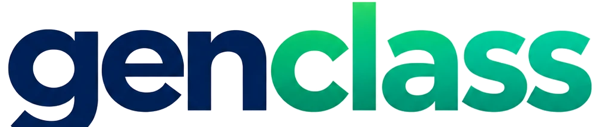
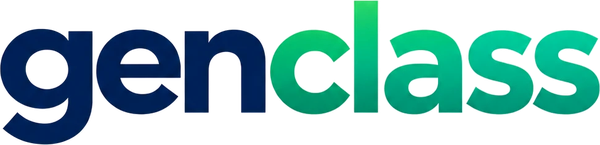
Mehar commit: site: rebuild the nav lockup so the g descender is not clipped
lockup-h.png and wordmark-600.png were cropped from a wordmark that cut the g at
the baseline. Re-cut the wordmark from wordtag.png (tagline masked), recompose the
lockup with the mark, and size the nav image for the taller asset.

diff --git a/site/public/index.html b/site/public/index.html
@@ -31,7 +31,7 @@
 <link rel="preconnect" href="https://fonts.googleapis.com">
 <link rel="preconnect" href="https://fonts.gstatic.com" crossorigin>
 <link href="https://fonts.googleapis.com/css2?family=Outfit:wght@500;600;700;800&amp;family=Figtree:wght@400;500;600&amp;family=Geist+Mono:wght@400;500&amp;display=swap" rel="stylesheet">
-<link rel="stylesheet" href="/styles.css?v=7e5ceaad">
+<link rel="stylesheet" href="/styles.css?v=c4d84874">
 <script type="application/ld+json">{"@context": "https://schema.org", "@graph": [{"@type": "Organization", "@id": "https://genclass.dev/#org", "name": "GenClass", "url": "https://genclass.dev/", "logo": "https://genclass.dev/icon-512.png", "sameAs": ["https://github.com/daybot-solutions-inc/GenClass-lib", "https://www.npmjs.com/package/@genclass/runtime"]}, {"@type": "WebSite", "@id": "https://genclass.dev/#site", "url": "https://genclass.dev/", "name": "GenClass", "publisher": {"@id": "https://genclass.dev/#org"}}, {"@type": "SoftwareApplication", "name": "GenClass Runtime", "alternateName": "@genclass/runtime", "applicationCategory": "DeveloperApplication", "applicationSubCategory": "Application reliability", "operatingSystem": "Web browser", "softwareVersion": "0.2.0", "license": "https://www.apache.org/licenses/LICENSE-2.0", "url": "https://genclass.dev/", "downloadUrl": "https://www.npmjs.com/package/@genclass/runtime", "installUrl": "https://genclass.dev/docs", "codeRepository": "https://github.com/daybot-solutions-inc/GenClass-lib", "programmingLanguage": ["TypeScript", "JavaScript"], "featureList": ["On-device AI inference with WebGPU or WASM", "Stale response and race condition prevention", "Duplicate request detection", "Failure storm detection", "Automatic React, Redux and Zustand state discovery", "Plain-English explanations, audit trail and undo"], "description": "An open-source runtime for web apps that uses a 10 MB on-device model to detect and prevent stale responses, race conditions, duplicate requests, inconsistent state and failure storms.", "offers": {"@type": "Offer", "price": "0", "priceCurrency": "USD", "description": "Community edition, free forever"}, "publisher": {"@id": "https://genclass.dev/#org"}}, {"@type": "FAQPage", "mainEntity": [{"@type": "Question", "name": "Is GenClass free?", "acceptedAnswer": {"@type": "Answer", "text": "Yes. The GenClass runtime is open source under Apache-2.0 and free forever, including in commercial apps, with no usage limits. GenClass Cloud and Enterprise are optional paid products for teams that want central dashboards, alerts, rollout controls, SSO and audit logs."}}, {"@type": "Question", "name": "Does GenClass need an account or an API key?", "acceptedAnswer": {"@type": "Answer", "text": "No. One script tag or import \"@genclass/runtime/auto\" is all it takes. An account is only needed for GenClass Cloud."}}, {"@type": "Question", "name": "Where does the AI model run?", "acceptedAnswer": {"@type": "Answer", "text": "In your users' browsers, inside a Web Worker on WebGPU or WASM. Decisions never depend on a server, so there are no per-inference fees and protection keeps working offline."}}, {"@type": "Question", "name": "Will GenClass break my app?", "acceptedAnswer": {"@type": "Answer", "text": "The default mode only observes and changes nothing. Across 7 frameworks and 15 data layers, GenClass introduced no bugs in 3,510 test runs, and in a sweep of 66 real apps 396 of 396 correct runs were left unchanged."}}]}]}</script>
 <script>window.__gcRawFetch = window.fetch.bind(window);</script>
 <script src="https://cdn.jsdelivr.net/npm/@genclass/runtime@0.2.0" data-manual></script>
@@ -40,7 +40,7 @@
 <a class="skip" href="#main">Skip to content</a>
 <header class="nav">
   <div class="wrap">
-    <a class="logo" href="/" aria-label="GenClass home"><img class="lk" src="/brand/lockup-h.png?v=1" alt="genclass" width="144" height="32"></a>
+    <a class="logo" href="/" aria-label="GenClass home"><img class="lk" src="/brand/lockup-h.png?v=2" alt="genclass" width="170" height="37"></a>
     <nav aria-label="Main"><a href="/cloud">Cloud</a><a href="/enterprise">Enterprise</a><a href="/pricing">Pricing</a><a href="/docs">Docs</a><a href="/benchmarks">Benchmarks</a><a href="/guides">Guides</a></nav>
     <a class="gh" href="https://github.com/daybot-solutions-inc/GenClass-lib">GitHub</a>
     <details class="mnav"><summary aria-label="Open menu">Menu</summary><div class="panel"><a href="/cloud">Cloud</a><a href="/enterprise">Enterprise</a><a href="/pricing">Pricing</a><a href="/docs">Docs</a><a href="/benchmarks">Benchmarks</a><a href="/guides">Guides</a><a href="https://github.com/daybot-solutions-inc/GenClass-lib">GitHub</a><a href="/docs">Get started</a></div></details>

diff --git a/site/public/pricing.html b/site/public/pricing.html
@@ -31,14 +31,14 @@
 <link rel="preconnect" href="https://fonts.googleapis.com">
 <link rel="preconnect" href="https://fonts.gstatic.com" crossorigin>
 <link href="https://fonts.googleapis.com/css2?family=Outfit:wght@500;600;700;800&amp;family=Figtree:wght@400;500;600&amp;family=Geist+Mono:wght@400;500&amp;display=swap" rel="stylesheet">
-<link rel="stylesheet" href="/styles.css?v=7e5ceaad">
+<link rel="stylesheet" href="/styles.css?v=c4d84874">
 <script type="application/ld+json">{"@context": "https://schema.org", "@graph": [{"@type": "Organization", "@id": "https://genclass.dev/#org", "name": "GenClass", "url": "https://genclass.dev/", "logo": "https://genclass.dev/icon-512.png", "sameAs": ["https://github.com/daybot-solutions-inc/GenClass-lib", "https://www.npmjs.com/package/@genclass/runtime"]}, {"@type": "WebSite", "@id": "https://genclass.dev/#site", "url": "https://genclass.dev/", "name": "GenClass", "publisher": {"@id": "https://genclass.dev/#org"}}, {"@type": "BreadcrumbList", "itemListElement": [{"@type": "ListItem", "position": 1, "name": "Home", "item": "https://genclass.dev/"}, {"@type": "ListItem", "position": 2, "name": "Pricing", "item": "https://genclass.dev/pricing"}]}, {"@type": "Product", "name": "GenClass", "description": "Self-healing AI runtime for web apps, with an optional cloud control plane for teams.", "brand": {"@type": "Brand", "name": "GenClass"}, "image": "https://genclass.dev/icon-512.png", "url": "https://genclass.dev/pricing", "offers": [{"@type": "Offer", "name": "Community", "price": "0", "priceCurrency": "USD", "url": "https://genclass.dev/docs", "availability": "https://schema.org/InStock", "description": "Open-source runtime, free forever, unlimited use."}, {"@type": "Offer", "name": "Cloud Teams", "price": "99", "priceCurrency": "USD", "url": "https://genclass.dev/cloud", "availability": "https://schema.org/PreOrder", "priceSpecification": {"@type": "UnitPriceSpecification", "price": "99", "priceCurrency": "USD", "unitText": "MONTH"}, "description": "Central dashboard, release comparisons, alerts and team controls. Early access."}, {"@type": "Offer", "name": "Enterprise", "price": "15000", "priceCurrency": "USD", "url": "https://genclass.dev/enterprise", "availability": "https://schema.org/PreOrder", "priceSpecification": {"@type": "UnitPriceSpecification", "price": "15000", "priceCurrency": "USD", "unitText": "YEAR"}, "description": "SSO, audit logs, private hosting, security policies, priority support and SLAs."}]}, {"@type": "FAQPage", "mainEntity": [{"@type": "Question", "name": "Is the GenClass runtime really free for commercial use?", "acceptedAnswer": {"@type": "Answer", "text": "Yes. The runtime is Apache-2.0 open source. You can use it in commercial apps with unlimited traffic and no account."}}, {"@type": "Question", "name": "Do you charge per inference or per bug fixed?", "acceptedAnswer": {"@type": "Answer", "text": "No. Inference runs on your users' devices, so it costs us nothing and costs you nothing. Paid plans charge for the team control plane, not for protection."}}, {"@type": "Question", "name": "What happens if my Cloud subscription ends?", "acceptedAnswer": {"@type": "Answer", "text": "Your apps stay protected. The runtime keeps running locally; only the dashboard, alerts and shared controls stop."}}]}]}</script>
 </head>
 <body>
 <a class="skip" href="#main">Skip to content</a>
 <header class="nav">
   <div class="wrap">
-    <a class="logo" href="/" aria-label="GenClass home"><img class="lk" src="/brand/lockup-h.png?v=1" alt="genclass" width="144" height="32"></a>
+    <a class="logo" href="/" aria-label="GenClass home"><img class="lk" src="/brand/lockup-h.png?v=2" alt="genclass" width="170" height="37"></a>
     <nav aria-label="Main"><a href="/cloud">Cloud</a><a href="/enterprise">Enterprise</a><a href="/pricing" class="on" aria-current="page">Pricing</a><a href="/docs">Docs</a><a href="/benchmarks">Benchmarks</a><a href="/guides">Guides</a></nav>
     <a class="gh" href="https://github.com/daybot-solutions-inc/GenClass-lib">GitHub</a>
     <details class="mnav"><summary aria-label="Open menu">Menu</summary><div class="panel"><a href="/cloud">Cloud</a><a href="/enterprise">Enterprise</a><a href="/pricing">Pricing</a><a href="/docs">Docs</a><a href="/benchmarks">Benchmarks</a><a href="/guides">Guides</a><a href="https://github.com/daybot-solutions-inc/GenClass-lib">GitHub</a><a href="/docs">Get started</a></div></details>

diff --git a/site/public/docs.html b/site/public/docs.html
@@ -31,14 +31,14 @@
 <link rel="preconnect" href="https://fonts.googleapis.com">
 <link rel="preconnect" href="https://fonts.gstatic.com" crossorigin>
 <link href="https://fonts.googleapis.com/css2?family=Outfit:wght@500;600;700;800&amp;family=Figtree:wght@400;500;600&amp;family=Geist+Mono:wght@400;500&amp;display=swap" rel="stylesheet">
-<link rel="stylesheet" href="/styles.css?v=7e5ceaad">
+<link rel="stylesheet" href="/styles.css?v=c4d84874">
 <script type="application/ld+json">{"@context": "https://schema.org", "@graph": [{"@type": "Organization", "@id": "https://genclass.dev/#org", "name": "GenClass", "url": "https://genclass.dev/", "logo": "https://genclass.dev/icon-512.png", "sameAs": ["https://github.com/daybot-solutions-inc/GenClass-lib", "https://www.npmjs.com/package/@genclass/runtime"]}, {"@type": "WebSite", "@id": "https://genclass.dev/#site", "url": "https://genclass.dev/", "name": "GenClass", "publisher": {"@id": "https://genclass.dev/#org"}}, {"@type": "BreadcrumbList", "itemListElement": [{"@type": "ListItem", "position": 1, "name": "Home", "item": "https://genclass.dev/"}, {"@type": "ListItem", "position": 2, "name": "Docs", "item": "https://genclass.dev/docs"}]}, {"@type": "HowTo", "name": "Install GenClass in a web app", "description": "Add the GenClass self-healing runtime to any web app.", "totalTime": "PT2M", "tool": [{"@type": "HowToTool", "name": "npm"}], "step": [{"@type": "HowToStep", "name": "Install the package", "text": "Run npm install @genclass/runtime.", "url": "https://genclass.dev/docs#install"}, {"@type": "HowToStep", "name": "Initialize the runtime", "text": "Import GenClass from @genclass/runtime and call GenClass.init() at the top of your entry file.", "url": "https://genclass.dev/docs#init"}, {"@type": "HowToStep", "name": "Choose a mode", "text": "Start in observe mode, then pass { mode: 'guard' } to let GenClass act.", "url": "https://genclass.dev/docs#modes"}]}, {"@type": "TechArticle", "headline": "GenClass documentation: getting started", "author": {"@id": "https://genclass.dev/#org"}, "publisher": {"@id": "https://genclass.dev/#org"}, "dateModified": "2026-10-10", "proficiencyLevel": "Beginner"}]}</script>
 </head>
 <body>
 <a class="skip" href="#main">Skip to content</a>
 <header class="nav">
   <div class="wrap">
-    <a class="logo" href="/" aria-label="GenClass home"><img class="lk" src="/brand/lockup-h.png?v=1" alt="genclass" width="144" height="32"></a>
+    <a class="logo" href="/" aria-label="GenClass home"><img class="lk" src="/brand/lockup-h.png?v=2" alt="genclass" width="170" height="37"></a>
     <nav aria-label="Main"><a href="/cloud">Cloud</a><a href="/enterprise">Enterprise</a><a href="/pricing">Pricing</a><a href="/docs" class="on" aria-current="page">Docs</a><a href="/benchmarks">Benchmarks</a><a href="/guides">Guides</a></nav>
     <a class="gh" href="https://github.com/daybot-solutions-inc/GenClass-lib">GitHub</a>
     <details class="mnav"><summary aria-label="Open menu">Menu</summary><div class="panel"><a href="/cloud">Cloud</a><a href="/enterprise">Enterprise</a><a href="/pricing">Pricing</a><a href="/docs">Docs</a><a href="/benchmarks">Benchmarks</a><a href="/guides">Guides</a><a href="https://github.com/daybot-solutions-inc/GenClass-lib">GitHub</a><a href="/docs">Get started</a></div></details>

diff --git a/site/public/benchmarks.html b/site/public/benchmarks.html
@@ -31,14 +31,14 @@
 <link rel="preconnect" href="https://fonts.googleapis.com">
 <link rel="preconnect" href="https://fonts.gstatic.com" crossorigin>
 <link href="https://fonts.googleapis.com/css2?family=Outfit:wght@500;600;700;800&amp;family=Figtree:wght@400;500;600&amp;family=Geist+Mono:wght@400;500&amp;display=swap" rel="stylesheet">
-<link rel="stylesheet" href="/styles.css?v=7e5ceaad">
+<link rel="stylesheet" href="/styles.css?v=c4d84874">
 <script type="application/ld+json">{"@context": "https://schema.org", "@graph": [{"@type": "Organization", "@id": "https://genclass.dev/#org", "name": "GenClass", "url": "https://genclass.dev/", "logo": "https://genclass.dev/icon-512.png", "sameAs": ["https://github.com/daybot-solutions-inc/GenClass-lib", "https://www.npmjs.com/package/@genclass/runtime"]}, {"@type": "WebSite", "@id": "https://genclass.dev/#site", "url": "https://genclass.dev/", "name": "GenClass", "publisher": {"@id": "https://genclass.dev/#org"}}, {"@type": "BreadcrumbList", "itemListElement": [{"@type": "ListItem", "position": 1, "name": "Home", "item": "https://genclass.dev/"}, {"@type": "ListItem", "position": 2, "name": "Benchmarks", "item": "https://genclass.dev/benchmarks"}]}, {"@type": "Dataset", "name": "GenClass real-app evaluation set", "description": "16,600 held-out runtime situations recorded from real web apps in headless Chromium, never used for training, labelled by counterfactual replay.", "creator": {"@id": "https://genclass.dev/#org"}, "license": "https://www.apache.org/licenses/LICENSE-2.0", "url": "https://genclass.dev/benchmarks", "isAccessibleForFree": true}, {"@type": "TechArticle", "headline": "GenClass benchmarks", "author": {"@id": "https://genclass.dev/#org"}, "publisher": {"@id": "https://genclass.dev/#org"}, "dateModified": "2026-10-10"}]}</script>
 </head>
 <body>
 <a class="skip" href="#main">Skip to content</a>
 <header class="nav">
   <div class="wrap">
-    <a class="logo" href="/" aria-label="GenClass home"><img class="lk" src="/brand/lockup-h.png?v=1" alt="genclass" width="144" height="32"></a>
+    <a class="logo" href="/" aria-label="GenClass home"><img class="lk" src="/brand/lockup-h.png?v=2" alt="genclass" width="170" height="37"></a>
     <nav aria-label="Main"><a href="/cloud">Cloud</a><a href="/enterprise">Enterprise</a><a href="/pricing">Pricing</a><a href="/docs">Docs</a><a href="/benchmarks" class="on" aria-current="page">Benchmarks</a><a href="/guides">Guides</a></nav>
     <a class="gh" href="https://github.com/daybot-solutions-inc/GenClass-lib">GitHub</a>
     <details class="mnav"><summary aria-label="Open menu">Menu</summary><div class="panel"><a href="/cloud">Cloud</a><a href="/enterprise">Enterprise</a><a href="/pricing">Pricing</a><a href="/docs">Docs</a><a href="/benchmarks">Benchmarks</a><a href="/guides">Guides</a><a href="https://github.com/daybot-solutions-inc/GenClass-lib">GitHub</a><a href="/docs">Get started</a></div></details>

diff --git a/site/public/guides/stale-responses-out-of-order.html b/site/public/guides/stale-responses-out-of-order.html
@@ -33,14 +33,14 @@
 <link rel="preconnect" href="https://fonts.googleapis.com">
 <link rel="preconnect" href="https://fonts.gstatic.com" crossorigin>
 <link href="https://fonts.googleapis.com/css2?family=Outfit:wght@500;600;700;800&amp;family=Figtree:wght@400;500;600&amp;family=Geist+Mono:wght@400;500&amp;display=swap" rel="stylesheet">
-<link rel="stylesheet" href="/styles.css?v=7e5ceaad">
+<link rel="stylesheet" href="/styles.css?v=c4d84874">
 <script type="application/ld+json">{"@context": "https://schema.org", "@graph": [{"@type": "Organization", "@id": "https://genclass.dev/#org", "name": "GenClass", "url": "https://genclass.dev/", "logo": "https://genclass.dev/icon-512.png", "sameAs": ["https://github.com/daybot-solutions-inc/GenClass-lib", "https://www.npmjs.com/package/@genclass/runtime"]}, {"@type": "WebSite", "@id": "https://genclass.dev/#site", "url": "https://genclass.dev/", "name": "GenClass", "publisher": {"@id": "https://genclass.dev/#org"}}, {"@type": "BreadcrumbList", "itemListElement": [{"@type": "ListItem", "position": 1, "name": "Home", "item": "https://genclass.dev/"}, {"@type": "ListItem", "position": 2, "name": "Guides", "item": "https://genclass.dev/guides"}, {"@type": "ListItem", "position": 3, "name": "Out-of-order responses", "item": "https://genclass.dev/guides/stale-responses-out-of-order"}]}, {"@type": "TechArticle", "headline": "Out-of-order responses: fixing stale search and autocomplete results", "datePublished": "2026-10-10", "dateModified": "2026-10-10", "author": {"@id": "https://genclass.dev/#org"}, "publisher": {"@id": "https://genclass.dev/#org"}, "proficiencyLevel": "Intermediate", "about": ["Autocomplete", "Typeahead", "Out-of-order responses", "Debounce"], "mainEntityOfPage": "https://genclass.dev/guides/stale-responses-out-of-order"}]}</script>
 </head>
 <body>
 <a class="skip" href="#main">Skip to content</a>
 <header class="nav">
   <div class="wrap">
-    <a class="logo" href="/" aria-label="GenClass home"><img class="lk" src="/brand/lockup-h.png?v=1" alt="genclass" width="144" height="32"></a>
+    <a class="logo" href="/" aria-label="GenClass home"><img class="lk" src="/brand/lockup-h.png?v=2" alt="genclass" width="170" height="37"></a>
     <nav aria-label="Main"><a href="/cloud">Cloud</a><a href="/enterprise">Enterprise</a><a href="/pricing">Pricing</a><a href="/docs">Docs</a><a href="/benchmarks">Benchmarks</a><a href="/guides" class="on" aria-current="page">Guides</a></nav>
     <a class="gh" href="https://github.com/daybot-solutions-inc/GenClass-lib">GitHub</a>
     <details class="mnav"><summary aria-label="Open menu">Menu</summary><div class="panel"><a href="/cloud">Cloud</a><a href="/enterprise">Enterprise</a><a href="/pricing">Pricing</a><a href="/docs">Docs</a><a href="/benchmarks">Benchmarks</a><a href="/guides">Guides</a><a href="https://github.com/daybot-solutions-inc/GenClass-lib">GitHub</a><a href="/docs">Get started</a></div></details>

diff --git a/site/public/guides/prevent-duplicate-submissions.html b/site/public/guides/prevent-duplicate-submissions.html
@@ -33,14 +33,14 @@
 <link rel="preconnect" href="https://fonts.googleapis.com">
 <link rel="preconnect" href="https://fonts.gstatic.com" crossorigin>
 <link href="https://fonts.googleapis.com/css2?family=Outfit:wght@500;600;700;800&amp;family=Figtree:wght@400;500;600&amp;family=Geist+Mono:wght@400;500&amp;display=swap" rel="stylesheet">
-<link rel="stylesheet" href="/styles.css?v=7e5ceaad">
+<link rel="stylesheet" href="/styles.css?v=c4d84874">
 <script type="application/ld+json">{"@context": "https://schema.org", "@graph": [{"@type": "Organization", "@id": "https://genclass.dev/#org", "name": "GenClass", "url": "https://genclass.dev/", "logo": "https://genclass.dev/icon-512.png", "sameAs": ["https://github.com/daybot-solutions-inc/GenClass-lib", "https://www.npmjs.com/package/@genclass/runtime"]}, {"@type": "WebSite", "@id": "https://genclass.dev/#site", "url": "https://genclass.dev/", "name": "GenClass", "publisher": {"@id": "https://genclass.dev/#org"}}, {"@type": "BreadcrumbList", "itemListElement": [{"@type": "ListItem", "position": 1, "name": "Home", "item": "https://genclass.dev/"}, {"@type": "ListItem", "position": 2, "name": "Guides", "item": "https://genclass.dev/guides"}, {"@type": "ListItem", "position": 3, "name": "Duplicate submissions", "item": "https://genclass.dev/guides/prevent-duplicate-submissions"}]}, {"@type": "TechArticle", "headline": "How to prevent duplicate form submissions", "datePublished": "2026-10-10", "dateModified": "2026-10-10", "author": {"@id": "https://genclass.dev/#org"}, "publisher": {"@id": "https://genclass.dev/#org"}, "proficiencyLevel": "Intermediate", "about": ["Idempotency", "Duplicate requests", "Form submission"], "mainEntityOfPage": "https://genclass.dev/guides/prevent-duplicate-submissions"}]}</script>
 </head>
 <body>
 <a class="skip" href="#main">Skip to content</a>
 <header class="nav">
   <div class="wrap">
-    <a class="logo" href="/" aria-label="GenClass home"><img class="lk" src="/brand/lockup-h.png?v=1" alt="genclass" width="144" height="32"></a>
+    <a class="logo" href="/" aria-label="GenClass home"><img class="lk" src="/brand/lockup-h.png?v=2" alt="genclass" width="170" height="37"></a>
     <nav aria-label="Main"><a href="/cloud">Cloud</a><a href="/enterprise">Enterprise</a><a href="/pricing">Pricing</a><a href="/docs">Docs</a><a href="/benchmarks">Benchmarks</a><a href="/guides" class="on" aria-current="page">Guides</a></nav>
     <a class="gh" href="https://github.com/daybot-solutions-inc/GenClass-lib">GitHub</a>
     <details class="mnav"><summary aria-label="Open menu">Menu</summary><div class="panel"><a href="/cloud">Cloud</a><a href="/enterprise">Enterprise</a><a href="/pricing">Pricing</a><a href="/docs">Docs</a><a href="/benchmarks">Benchmarks</a><a href="/guides">Guides</a><a href="https://github.com/daybot-solutions-inc/GenClass-lib">GitHub</a><a href="/docs">Get started</a></div></details>

diff --git a/site/public/guides.html b/site/public/guides.html
@@ -31,14 +31,14 @@
 <link rel="preconnect" href="https://fonts.googleapis.com">
 <link rel="preconnect" href="https://fonts.gstatic.com" crossorigin>
 <link href="https://fonts.googleapis.com/css2?family=Outfit:wght@500;600;700;800&amp;family=Figtree:wght@400;500;600&amp;family=Geist+Mono:wght@400;500&amp;display=swap" rel="stylesheet">
-<link rel="stylesheet" href="/styles.css?v=7e5ceaad">
+<link rel="stylesheet" href="/styles.css?v=c4d84874">
 <script type="application/ld+json">{"@context": "https://schema.org", "@graph": [{"@type": "Organization", "@id": "https://genclass.dev/#org", "name": "GenClass", "url": "https://genclass.dev/", "logo": "https://genclass.dev/icon-512.png", "sameAs": ["https://github.com/daybot-solutions-inc/GenClass-lib", "https://www.npmjs.com/package/@genclass/runtime"]}, {"@type": "WebSite", "@id": "https://genclass.dev/#site", "url": "https://genclass.dev/", "name": "GenClass", "publisher": {"@id": "https://genclass.dev/#org"}}, {"@type": "BreadcrumbList", "itemListElement": [{"@type": "ListItem", "position": 1, "name": "Home", "item": "https://genclass.dev/"}, {"@type": "ListItem", "position": 2, "name": "Guides", "item": "https://genclass.dev/guides"}]}, {"@type": "CollectionPage", "name": "GenClass guides", "url": "https://genclass.dev/guides", "hasPart": [{"@type": "TechArticle", "headline": "How to fix race conditions in React data fetching", "url": "https://genclass.dev/guides/race-conditions-react"}, {"@type": "TechArticle", "headline": "How to prevent duplicate form submissions", "url": "https://genclass.dev/guides/prevent-duplicate-submissions"}, {"@type": "TechArticle", "headline": "Out-of-order responses and stale search results", "url": "https://genclass.dev/guides/stale-responses-out-of-order"}]}]}</script>
 </head>
 <body>
 <a class="skip" href="#main">Skip to content</a>
 <header class="nav">
   <div class="wrap">
-    <a class="logo" href="/" aria-label="GenClass home"><img class="lk" src="/brand/lockup-h.png?v=1" alt="genclass" width="144" height="32"></a>
+    <a class="logo" href="/" aria-label="GenClass home"><img class="lk" src="/brand/lockup-h.png?v=2" alt="genclass" width="170" height="37"></a>
     <nav aria-label="Main"><a href="/cloud">Cloud</a><a href="/enterprise">Enterprise</a><a href="/pricing">Pricing</a><a href="/docs">Docs</a><a href="/benchmarks">Benchmarks</a><a href="/guides" class="on" aria-current="page">Guides</a></nav>
     <a class="gh" href="https://github.com/daybot-solutions-inc/GenClass-lib">GitHub</a>
     <details class="mnav"><summary aria-label="Open menu">Menu</summary><div class="panel"><a href="/cloud">Cloud</a><a href="/enterprise">Enterprise</a><a href="/pricing">Pricing</a><a href="/docs">Docs</a><a href="/benchmarks">Benchmarks</a><a href="/guides">Guides</a><a href="https://github.com/daybot-solutions-inc/GenClass-lib">GitHub</a><a href="/docs">Get started</a></div></details>

diff --git a/site/public/guides/race-conditions-react.html b/site/public/guides/race-conditions-react.html
@@ -33,14 +33,14 @@
 <link rel="preconnect" href="https://fonts.googleapis.com">
 <link rel="preconnect" href="https://fonts.gstatic.com" crossorigin>
 <link href="https://fonts.googleapis.com/css2?family=Outfit:wght@500;600;700;800&amp;family=Figtree:wght@400;500;600&amp;family=Geist+Mono:wght@400;500&amp;display=swap" rel="stylesheet">
-<link rel="stylesheet" href="/styles.css?v=7e5ceaad">
+<link rel="stylesheet" href="/styles.css?v=c4d84874">
 <script type="application/ld+json">{"@context": "https://schema.org", "@graph": [{"@type": "Organization", "@id": "https://genclass.dev/#org", "name": "GenClass", "url": "https://genclass.dev/", "logo": "https://genclass.dev/icon-512.png", "sameAs": ["https://github.com/daybot-solutions-inc/GenClass-lib", "https://www.npmjs.com/package/@genclass/runtime"]}, {"@type": "WebSite", "@id": "https://genclass.dev/#site", "url": "https://genclass.dev/", "name": "GenClass", "publisher": {"@id": "https://genclass.dev/#org"}}, {"@type": "BreadcrumbList", "itemListElement": [{"@type": "ListItem", "position": 1, "name": "Home", "item": "https://genclass.dev/"}, {"@type": "ListItem", "position": 2, "name": "Guides", "item": "https://genclass.dev/guides"}, {"@type": "ListItem", "position": 3, "name": "Race conditions in React", "item": "https://genclass.dev/guides/race-conditions-react"}]}, {"@type": "TechArticle", "headline": "How to fix race conditions in React data fetching", "datePublished": "2026-10-10", "dateModified": "2026-10-10", "author": {"@id": "https://genclass.dev/#org"}, "publisher": {"@id": "https://genclass.dev/#org"}, "proficiencyLevel": "Intermediate", "about": ["React", "useEffect", "Race condition", "AbortController"], "mainEntityOfPage": "https://genclass.dev/guides/race-conditions-react"}]}</script>
 </head>
 <body>
 <a class="skip" href="#main">Skip to content</a>
 <header class="nav">
   <div class="wrap">
-    <a class="logo" href="/" aria-label="GenClass home"><img class="lk" src="/brand/lockup-h.png?v=1" alt="genclass" width="144" height="32"></a>
+    <a class="logo" href="/" aria-label="GenClass home"><img class="lk" src="/brand/lockup-h.png?v=2" alt="genclass" width="170" height="37"></a>
     <nav aria-label="Main"><a href="/cloud">Cloud</a><a href="/enterprise">Enterprise</a><a href="/pricing">Pricing</a><a href="/docs">Docs</a><a href="/benchmarks">Benchmarks</a><a href="/guides" class="on" aria-current="page">Guides</a></nav>
     <a class="gh" href="https://github.com/daybot-solutions-inc/GenClass-lib">GitHub</a>
     <details class="mnav"><summary aria-label="Open menu">Menu</summary><div class="panel"><a href="/cloud">Cloud</a><a href="/enterprise">Enterprise</a><a href="/pricing">Pricing</a><a href="/docs">Docs</a><a href="/benchmarks">Benchmarks</a><a href="/guides">Guides</a><a href="https://github.com/daybot-solutions-inc/GenClass-lib">GitHub</a><a href="/docs">Get started</a></div></details>

diff --git a/site/public/cloud.html b/site/public/cloud.html
@@ -31,14 +31,14 @@
 <link rel="preconnect" href="https://fonts.googleapis.com">
 <link rel="preconnect" href="https://fonts.gstatic.com" crossorigin>
 <link href="https://fonts.googleapis.com/css2?family=Outfit:wght@500;600;700;800&amp;family=Figtree:wght@400;500;600&amp;family=Geist+Mono:wght@400;500&amp;display=swap" rel="stylesheet">
-<link rel="stylesheet" href="/styles.css?v=7e5ceaad">
+<link rel="stylesheet" href="/styles.css?v=c4d84874">
 <script type="application/ld+json">{"@context": "https://schema.org", "@graph": [{"@type": "Organization", "@id": "https://genclass.dev/#org", "name": "GenClass", "url": "https://genclass.dev/", "logo": "https://genclass.dev/icon-512.png", "sameAs": ["https://github.com/daybot-solutions-inc/GenClass-lib", "https://www.npmjs.com/package/@genclass/runtime"]}, {"@type": "WebSite", "@id": "https://genclass.dev/#site", "url": "https://genclass.dev/", "name": "GenClass", "publisher": {"@id": "https://genclass.dev/#org"}}, {"@type": "BreadcrumbList", "itemListElement": [{"@type": "ListItem", "position": 1, "name": "Home", "item": "https://genclass.dev/"}, {"@type": "ListItem", "position": 2, "name": "Cloud", "item": "https://genclass.dev/cloud"}]}, {"@type": "SoftwareApplication", "name": "GenClass Cloud", "applicationCategory": "DeveloperApplication", "applicationSubCategory": "Reliability monitoring", "operatingSystem": "Web", "url": "https://genclass.dev/cloud", "description": "Central dashboard, release comparisons, alerts, rollouts and team controls for apps running the GenClass runtime.", "offers": {"@type": "Offer", "price": "99", "priceCurrency": "USD", "availability": "https://schema.org/PreOrder"}, "publisher": {"@id": "https://genclass.dev/#org"}}]}</script>
 </head>
 <body>
 <a class="skip" href="#main">Skip to content</a>
 <header class="nav">
   <div class="wrap">
-    <a class="logo" href="/" aria-label="GenClass home"><img class="lk" src="/brand/lockup-h.png?v=1" alt="genclass" width="144" height="32"></a>
+    <a class="logo" href="/" aria-label="GenClass home"><img class="lk" src="/brand/lockup-h.png?v=2" alt="genclass" width="170" height="37"></a>
     <nav aria-label="Main"><a href="/cloud" class="on" aria-current="page">Cloud</a><a href="/enterprise">Enterprise</a><a href="/pricing">Pricing</a><a href="/docs">Docs</a><a href="/benchmarks">Benchmarks</a><a href="/guides">Guides</a></nav>
     <a class="gh" href="https://github.com/daybot-solutions-inc/GenClass-lib">GitHub</a>
     <details class="mnav"><summary aria-label="Open menu">Menu</summary><div class="panel"><a href="/cloud">Cloud</a><a href="/enterprise">Enterprise</a><a href="/pricing">Pricing</a><a href="/docs">Docs</a><a href="/benchmarks">Benchmarks</a><a href="/guides">Guides</a><a href="https://github.com/daybot-solutions-inc/GenClass-lib">GitHub</a><a href="/docs">Get started</a></div></details>

diff --git a/site/public/docs/options.html b/site/public/docs/options.html
@@ -31,14 +31,14 @@
 <link rel="preconnect" href="https://fonts.googleapis.com">
 <link rel="preconnect" href="https://fonts.gstatic.com" crossorigin>
 <link href="https://fonts.googleapis.com/css2?family=Outfit:wght@500;600;700;800&amp;family=Figtree:wght@400;500;600&amp;family=Geist+Mono:wght@400;500&amp;display=swap" rel="stylesheet">
-<link rel="stylesheet" href="/styles.css?v=7e5ceaad">
+<link rel="stylesheet" href="/styles.css?v=c4d84874">
 <script type="application/ld+json">{"@context": "https://schema.org", "@graph": [{"@type": "Organization", "@id": "https://genclass.dev/#org", "name": "GenClass", "url": "https://genclass.dev/", "logo": "https://genclass.dev/icon-512.png", "sameAs": ["https://github.com/daybot-solutions-inc/GenClass-lib", "https://www.npmjs.com/package/@genclass/runtime"]}, {"@type": "WebSite", "@id": "https://genclass.dev/#site", "url": "https://genclass.dev/", "name": "GenClass", "publisher": {"@id": "https://genclass.dev/#org"}}, {"@type": "BreadcrumbList", "itemListElement": [{"@type": "ListItem", "position": 1, "name": "Home", "item": "https://genclass.dev/"}, {"@type": "ListItem", "position": 2, "name": "Docs", "item": "https://genclass.dev/docs"}, {"@type": "ListItem", "position": 3, "name": "Options Reference", "item": "https://genclass.dev/docs/options"}]}, {"@type": "TechArticle", "headline": "@genclass/runtime: configuration extensions spec (v0.3 options), final", "author": {"@id": "https://genclass.dev/#org"}, "publisher": {"@id": "https://genclass.dev/#org"}, "dateModified": "2026-10-10", "isBasedOn": "https://github.com/daybot-solutions-inc/GenClass-lib/blob/main/docs/runtime/OPTIONS-SPEC.md"}]}</script>
 </head>
 <body>
 <a class="skip" href="#main">Skip to content</a>
 <header class="nav">
   <div class="wrap">
-    <a class="logo" href="/" aria-label="GenClass home"><img class="lk" src="/brand/lockup-h.png?v=1" alt="genclass" width="144" height="32"></a>
+    <a class="logo" href="/" aria-label="GenClass home"><img class="lk" src="/brand/lockup-h.png?v=2" alt="genclass" width="170" height="37"></a>
     <nav aria-label="Main"><a href="/cloud">Cloud</a><a href="/enterprise">Enterprise</a><a href="/pricing">Pricing</a><a href="/docs" class="on" aria-current="page">Docs</a><a href="/benchmarks">Benchmarks</a><a href="/guides">Guides</a></nav>
     <a class="gh" href="https://github.com/daybot-solutions-inc/GenClass-lib">GitHub</a>
     <details class="mnav"><summary aria-label="Open menu">Menu</summary><div class="panel"><a href="/cloud">Cloud</a><a href="/enterprise">Enterprise</a><a href="/pricing">Pricing</a><a href="/docs">Docs</a><a href="/benchmarks">Benchmarks</a><a href="/guides">Guides</a><a href="https://github.com/daybot-solutions-inc/GenClass-lib">GitHub</a><a href="/docs">Get started</a></div></details>

diff --git a/site/public/docs/interception.html b/site/public/docs/interception.html
@@ -31,14 +31,14 @@
 <link rel="preconnect" href="https://fonts.googleapis.com">
 <link rel="preconnect" href="https://fonts.gstatic.com" crossorigin>
 <link href="https://fonts.googleapis.com/css2?family=Outfit:wght@500;600;700;800&amp;family=Figtree:wght@400;500;600&amp;family=Geist+Mono:wght@400;500&amp;display=swap" rel="stylesheet">
-<link rel="stylesheet" href="/styles.css?v=7e5ceaad">
+<link rel="stylesheet" href="/styles.css?v=c4d84874">
 <script type="application/ld+json">{"@context": "https://schema.org", "@graph": [{"@type": "Organization", "@id": "https://genclass.dev/#org", "name": "GenClass", "url": "https://genclass.dev/", "logo": "https://genclass.dev/icon-512.png", "sameAs": ["https://github.com/daybot-solutions-inc/GenClass-lib", "https://www.npmjs.com/package/@genclass/runtime"]}, {"@type": "WebSite", "@id": "https://genclass.dev/#site", "url": "https://genclass.dev/", "name": "GenClass", "publisher": {"@id": "https://genclass.dev/#org"}}, {"@type": "BreadcrumbList", "itemListElement": [{"@type": "ListItem", "position": 1, "name": "Home", "item": "https://genclass.dev/"}, {"@type": "ListItem", "position": 2, "name": "Docs", "item": "https://genclass.dev/docs"}, {"@type": "ListItem", "position": 3, "name": "Interception surface", "item": "https://genclass.dev/docs/interception"}]}, {"@type": "TechArticle", "headline": "Interception surface", "author": {"@id": "https://genclass.dev/#org"}, "publisher": {"@id": "https://genclass.dev/#org"}, "dateModified": "2026-10-10", "isBasedOn": "https://github.com/daybot-solutions-inc/GenClass-lib/blob/main/packages/runtime/INTERCEPTION.md"}]}</script>
 </head>
 <body>
 <a class="skip" href="#main">Skip to content</a>
 <header class="nav">
   <div class="wrap">
-    <a class="logo" href="/" aria-label="GenClass home"><img class="lk" src="/brand/lockup-h.png?v=1" alt="genclass" width="144" height="32"></a>
+    <a class="logo" href="/" aria-label="GenClass home"><img class="lk" src="/brand/lockup-h.png?v=2" alt="genclass" width="170" height="37"></a>
     <nav aria-label="Main"><a href="/cloud">Cloud</a><a href="/enterprise">Enterprise</a><a href="/pricing">Pricing</a><a href="/docs" class="on" aria-current="page">Docs</a><a href="/benchmarks">Benchmarks</a><a href="/guides">Guides</a></nav>
     <a class="gh" href="https://github.com/daybot-solutions-inc/GenClass-lib">GitHub</a>
     <details class="mnav"><summary aria-label="Open menu">Menu</summary><div class="panel"><a href="/cloud">Cloud</a><a href="/enterprise">Enterprise</a><a href="/pricing">Pricing</a><a href="/docs">Docs</a><a href="/benchmarks">Benchmarks</a><a href="/guides">Guides</a><a href="https://github.com/daybot-solutions-inc/GenClass-lib">GitHub</a><a href="/docs">Get started</a></div></details>

diff --git a/site/public/docs/architecture.html b/site/public/docs/architecture.html
@@ -31,14 +31,14 @@
 <link rel="preconnect" href="https://fonts.googleapis.com">
 <link rel="preconnect" href="https://fonts.gstatic.com" crossorigin>
 <link href="https://fonts.googleapis.com/css2?family=Outfit:wght@500;600;700;800&amp;family=Figtree:wght@400;500;600&amp;family=Geist+Mono:wght@400;500&amp;display=swap" rel="stylesheet">
-<link rel="stylesheet" href="/styles.css?v=7e5ceaad">
+<link rel="stylesheet" href="/styles.css?v=c4d84874">
 <script type="application/ld+json">{"@context": "https://schema.org", "@graph": [{"@type": "Organization", "@id": "https://genclass.dev/#org", "name": "GenClass", "url": "https://genclass.dev/", "logo": "https://genclass.dev/icon-512.png", "sameAs": ["https://github.com/daybot-solutions-inc/GenClass-lib", "https://www.npmjs.com/package/@genclass/runtime"]}, {"@type": "WebSite", "@id": "https://genclass.dev/#site", "url": "https://genclass.dev/", "name": "GenClass", "publisher": {"@id": "https://genclass.dev/#org"}}, {"@type": "BreadcrumbList", "itemListElement": [{"@type": "ListItem", "position": 1, "name": "Home", "item": "https://genclass.dev/"}, {"@type": "ListItem", "position": 2, "name": "Docs", "item": "https://genclass.dev/docs"}, {"@type": "ListItem", "position": 3, "name": "Architecture", "item": "https://genclass.dev/docs/architecture"}]}, {"@type": "TechArticle", "headline": "GenClass Runtime: architecture", "author": {"@id": "https://genclass.dev/#org"}, "publisher": {"@id": "https://genclass.dev/#org"}, "dateModified": "2026-10-10", "isBasedOn": "https://github.com/daybot-solutions-inc/GenClass-lib/blob/main/docs/runtime/ARCHITECTURE.md"}]}</script>
 </head>
 <body>
 <a class="skip" href="#main">Skip to content</a>
 <header class="nav">
   <div class="wrap">
-    <a class="logo" href="/" aria-label="GenClass home"><img class="lk" src="/brand/lockup-h.png?v=1" alt="genclass" width="144" height="32"></a>
+    <a class="logo" href="/" aria-label="GenClass home"><img class="lk" src="/brand/lockup-h.png?v=2" alt="genclass" width="170" height="37"></a>
     <nav aria-label="Main"><a href="/cloud">Cloud</a><a href="/enterprise">Enterprise</a><a href="/pricing">Pricing</a><a href="/docs" class="on" aria-current="page">Docs</a><a href="/benchmarks">Benchmarks</a><a href="/guides">Guides</a></nav>
     <a class="gh" href="https://github.com/daybot-solutions-inc/GenClass-lib">GitHub</a>
     <details class="mnav"><summary aria-label="Open menu">Menu</summary><div class="panel"><a href="/cloud">Cloud</a><a href="/enterprise">Enterprise</a><a href="/pricing">Pricing</a><a href="/docs">Docs</a><a href="/benchmarks">Benchmarks</a><a href="/guides">Guides</a><a href="https://github.com/daybot-solutions-inc/GenClass-lib">GitHub</a><a href="/docs">Get started</a></div></details>
